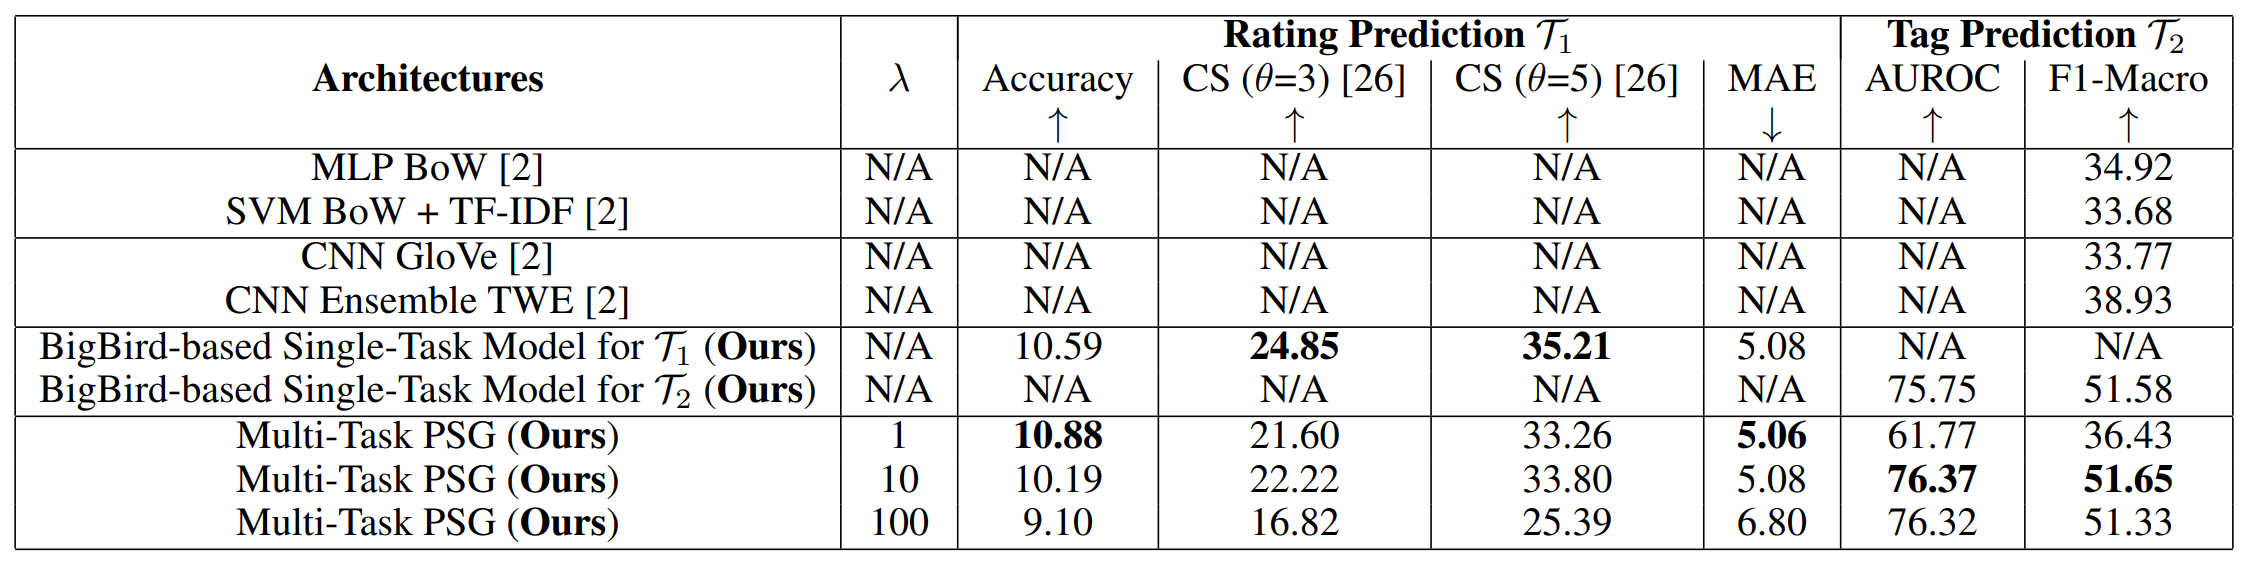
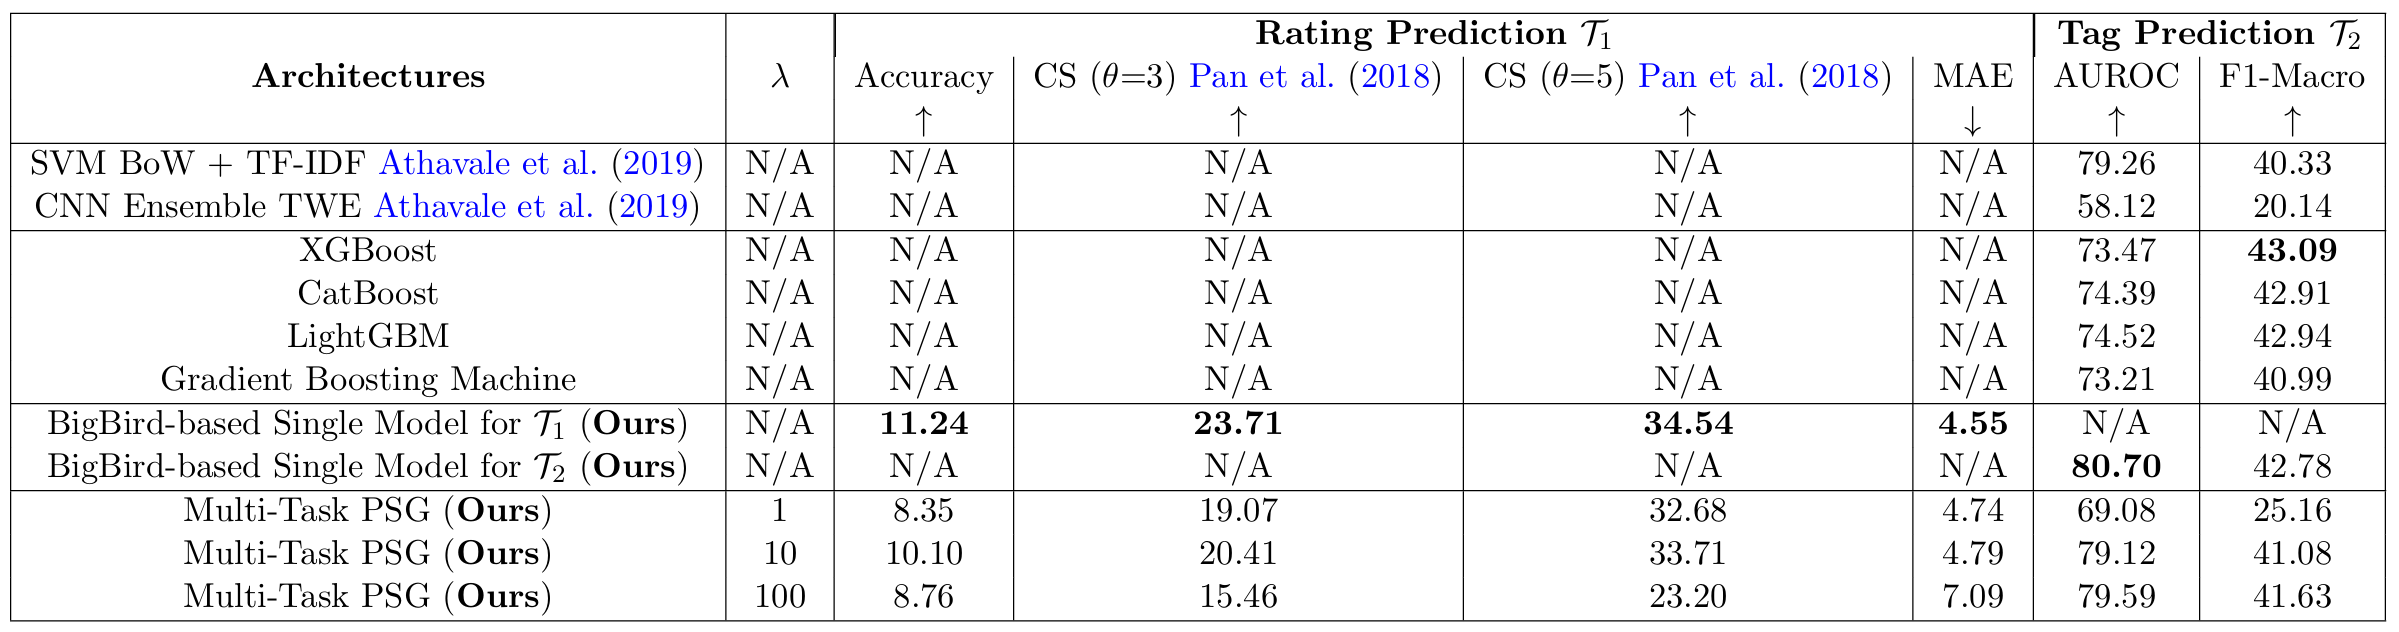
feat : Version update and weight upload

Changed region(s): [[0.0, 0.0, 0.996, 0.9912], [0.0934, 0.0901, 0.249, 0.1802], [0.3112, 0.871, 0.3424, 0.9011]]

diff --git a/README.md b/README.md
@@ -4,91 +4,96 @@
 
 ### Predicting the Algorithm Tags and Difficulty for Competitive Programming Problems
 
-* This repository provides official PyTorch implementations for <b>Multi-Task PSG(Problem-Solving Guide)</b>.
+- This repository provides official PyTorch implementations for <b>Multi-Task PSG(Problem-Solving Guide)</b>.
 
 ### Authors
 
-* [Juntae Kim](https://github.com/sronger), [Eunjung Cho](https://github.com/EunJung516), [Dongwoo Kim](https://github.com/kidw0124), [Dongbin Na](https://github.com/ndb796)
+- [Juntae Kim](https://github.com/sronger), [Eunjung Cho](https://github.com/EunJung516), [Dongbin Na](https://github.com/ndb796)
 
 ### Abstract
 
 > The recent program development industries have required problem-solving abilities
-for engineers, especially application developers. However, AI-based education
-systems to help solve computer algorithm problems have not yet attracted attention,
-while most big tech companies require the ability to solve algorithm problems
-including Google, Meta, and Amazon. The most useful guide to solving algorithm
-problems might be guessing the category (tag) of the facing problems. Therefore,
-our study addresses the task of predicting the algorithm tag as a useful tool for
-engineers and developers. Moreover, we also consider predicting the difficulty
-levels of algorithm problems, which can be used as useful guidance to calculate the
-required time to solve that problem. In this paper, we present a real-world algorithm
-problem multi-task dataset, AMT, by mainly collecting problem samples from the
-most famous and large competitive programming website Codeforces. To the best
-of our knowledge, our proposed dataset is the most large-scale dataset for predicting
-algorithm tags compared to previous studies. Moreover, our work is the first to
-address predicting the difficulty levels of algorithm problems. In conclusion, we
-present a deep learning-based novel method for simultaneously predicting algorithm
-tags and the difficulty levels of an algorithm problem given.
+> for engineers, especially application developers. However, AI-based education
+> systems to help solve computer algorithm problems have not yet attracted attention,
+> while most big tech companies require the ability to solve algorithm problems
+> including Google, Meta, and Amazon. The most useful guide to solving algorithm
+> problems might be guessing the category (tag) of the facing problems. Therefore,
+> our study addresses the task of predicting the algorithm tag as a useful tool for
+> engineers and developers. Moreover, we also consider predicting the difficulty
+> levels of algorithm problems, which can be used as useful guidance to calculate the
+> required time to solve that problem. In this paper, we present a real-world algorithm
+> problem multi-task dataset, AMT, by mainly collecting problem samples from the
+> most famous and large competitive programming website Codeforces. To the best
+> of our knowledge, our proposed dataset is the most large-scale dataset for predicting
+> algorithm tags compared to previous studies. Moreover, our work is the first to
+> address predicting the difficulty levels of algorithm problems. In conclusion, we
+> present a deep learning-based novel method for simultaneously predicting algorithm
+> tags and the difficulty levels of an algorithm problem given.
 
 ### Model perfomance comparison
 
 <img src="./resources/Model_perfomance_comparison.png" width="90%">
 
 ### Source Codes
-* Our code can be run on Google Colab.
-  * [Multi-Task PSG](https://colab.research.google.com/drive/1dhnU-EqRz4jI4acqUXavaYnO_oYNhct1?usp=sharing)
-     * In the config, you can adjust the loss by tuning the lambda value.
-  * [BigBird-based Single-Task Model](https://colab.research.google.com/drive/10Vfh_eBl6WfMA_fjQ_PcEqeIjWJbPCVB?usp=sharing)
-     * In the config, you can choose 'tag' or 'rating' for the task.
+
+- Our code can be run on Google Colab.
+  - [Multi-Task PSG](https://colab.research.google.com/drive/1dhnU-EqRz4jI4acqUXavaYnO_oYNhct1?usp=sharing)
+    - In the config, you can adjust the loss by tuning the lambda value.
+  - [BigBird-based Single-Task Model](https://colab.research.google.com/drive/10Vfh_eBl6WfMA_fjQ_PcEqeIjWJbPCVB?usp=sharing)
+    - In the config, you can choose 'tag' or 'rating' for the task.
+
+### Model Weights
+
+- You can check the model weights at the following address
+  - https://drive.google.com/drive/folders/1-rCNt72t4uwvl0WdPCyqdiJ1-yKKrmjn?usp=sharing
 
 ### Preprocessing
-* The **AMT dataset** has been processed using our preprocessing techniques.
-* The technical details are as follows.
-  * Substitute exponential notation.
-    * 10^6 -> 1000000
-  * Insert spaces between the dollar signs.
-    * $$$n$$$ -> $$$ n $$$
-  * Convert to lowercase.
-    * This is an interactive task. -> this is an interactive task.
-  * Calculate the expression. (optional)
-    * 2 \cdot 100000 -> 200000
-  * Remove stopwords using the nltk library.
-  * Lemmatize using the nltk library.
+
+- The **AMT dataset** has been processed using our preprocessing techniques.
+- The technical details are as follows.
+  - Substitute exponential notation.
+    - 10^6 -> 1000000
+  - Insert spaces between the dollar signs.
+    - $$$n$$$ -> $$$ n $$$
+  - Convert to lowercase.
+    - This is an interactive task. -> this is an interactive task.
+  - Calculate the expression. (optional)
+    - 2 \cdot 100000 -> 200000
+  - Remove stopwords using the nltk library.
+  - Lemmatize using the nltk library.
 
 ### Datasets
-* All data was collected from the [Codeforces website](https://codeforces.com/).
-    * The tag distribution is as follows.
- 
-      * Top-5 Frequent Categories
-         <img src="./resources/Top-5_Frequent_Categories.png" width="90%" height="120%">
-         
-      * Selected-10 Categories
-         <img src="./resources/Selected-10_Categories.png" width="90%" height="110%" >
 
-      * Top-20 Frequent Categories (except constructive algorithms and *special)
-         <img src="./resources/Top-20_Frequent_Categories.png" width="90%" >
-      
-    * The rating distribution is as follows.
-      
-       *  Top-5 Frequent Categories Difficulty distribution
-          <img src="./resources/Top-5_Frequent_Categories_Difficulty_distribution.png" width="90%" >
-          
-       *  Selected-10 Categories Difficulty distribution
-          <img src="./resources/Selected-10_Categories_Difficulty_distribution.png" width="90%" >
-          
-       *  Top-20 Frequent Categories Difficulty distribution
-          <img src="./resources/Top-20_Frequent_Categories_Difficulty_distribution.png" width="90%" >
-          
+- All data was collected from the [Codeforces website](https://codeforces.com/).
+
+  - The tag distribution is as follows.
+
+    - Top-5 Frequent Categories
+      <img src="./resources/Top-5_Frequent_Categories.png" width="90%" height="120%">
+    - Selected-10 Categories
+      <img src="./resources/Selected-10_Categories.png" width="90%" height="110%" >
+
+    - Top-20 Frequent Categories (except constructive algorithms and \*special)
+      <img src="./resources/Top-20_Frequent_Categories.png" width="90%" >
+
+  - The rating distribution is as follows.
+
+    - Top-5 Frequent Categories Difficulty distribution
+      <img src="./resources/Top-5_Frequent_Categories_Difficulty_distribution.png" width="90%" >
+    - Selected-10 Categories Difficulty distribution
+      <img src="./resources/Selected-10_Categories_Difficulty_distribution.png" width="90%" >
+    - Top-20 Frequent Categories Difficulty distribution
+      <img src="./resources/Top-20_Frequent_Categories_Difficulty_distribution.png" width="90%" >
 
 ### Classification Models Performance
 
-|Architectures|λ|Accuracy|CS (θ=3)|CS (θ=5)|MAE|AUROC|F1-Macro||
-|---|---|---|---|---|---|---|---|---|
-|BigBird-based Single-Task Model for Rating|N/A|10.59|**24.85**|**35.21**|5.08|N/A|N/A|([code](https://colab.research.google.com/drive/10Vfh_eBl6WfMA_fjQ_PcEqeIjWJbPCVB?usp=sharing) \| [dataset](./data/AMT10))|
-|BigBird-based Single-Task Model for Tag|N/A|N/A|N/A|N/A|N/A|75.75|51.58|([code](https://colab.research.google.com/drive/10Vfh_eBl6WfMA_fjQ_PcEqeIjWJbPCVB?usp=sharing) \| [dataset](./data/AMT10))|
-|Multi-Task PSG|1|**10.88**|21.60|33.26|**5.06**|61.77|36.43|([code](https://colab.research.google.com/drive/1dhnU-EqRz4jI4acqUXavaYnO_oYNhct1?usp=sharing) \| [dataset](./data/AMT10))|
-|Multi-Task PSG|10|10.19|22.22|33.80|5.08|**76.37**|**51.65**|([code](https://colab.research.google.com/drive/1dhnU-EqRz4jI4acqUXavaYnO_oYNhct1?usp=sharing) \| [dataset](./data/AMT10))|
-|Multi-Task PSG|100|9.10|16.82|25.39|6.80|76.32|51.33|([code](https://colab.research.google.com/drive/1dhnU-EqRz4jI4acqUXavaYnO_oYNhct1?usp=sharing) \| [dataset](./data/AMT10))|
+| Architectures                              | λ   | Accuracy  | CS (θ=3)  | CS (θ=5)  | MAE      | AUROC     | F1-Macro |                                                                                                                            |
+| ------------------------------------------ | --- | --------- | --------- | --------- | -------- | --------- | -------- | -------------------------------------------------------------------------------------------------------------------------- |
+| BigBird-based Single-Task Model for Rating | N/A | **11.24** | **23.71** | **34.54** | **4.55** | N/A       | N/A      | ([code](https://colab.research.google.com/drive/10Vfh_eBl6WfMA_fjQ_PcEqeIjWJbPCVB?usp=sharing) \| [dataset](./data/AMT10)) |
+| BigBird-based Single-Task Model for Tag    | N/A | N/A       | N/A       | N/A       | N/A      | **80.70** | 42.78    | ([code](https://colab.research.google.com/drive/10Vfh_eBl6WfMA_fjQ_PcEqeIjWJbPCVB?usp=sharing) \| [dataset](./data/AMT10)) |
+| Multi-Task PSG                             | 1   | 8.35      | 19.07     | 32.68     | 4.74     | 69.08     | 25.16    | ([code](https://colab.research.google.com/drive/1dhnU-EqRz4jI4acqUXavaYnO_oYNhct1?usp=sharing) \| [dataset](./data/AMT10)) |
+| Multi-Task PSG                             | 10  | 10.10     | 20.41     | 33.71     | 4.79     | 79.12     | 41.08    | ([code](https://colab.research.google.com/drive/1dhnU-EqRz4jI4acqUXavaYnO_oYNhct1?usp=sharing) \| [dataset](./data/AMT10)) |
+| Multi-Task PSG                             | 100 | 8.76      | 15.46     | 23.20     | 7.09     | 79.59     | 41.63    | ([code](https://colab.research.google.com/drive/1dhnU-EqRz4jI4acqUXavaYnO_oYNhct1?usp=sharing) \| [dataset](./data/AMT10)) |
 
 ### Citation
 
